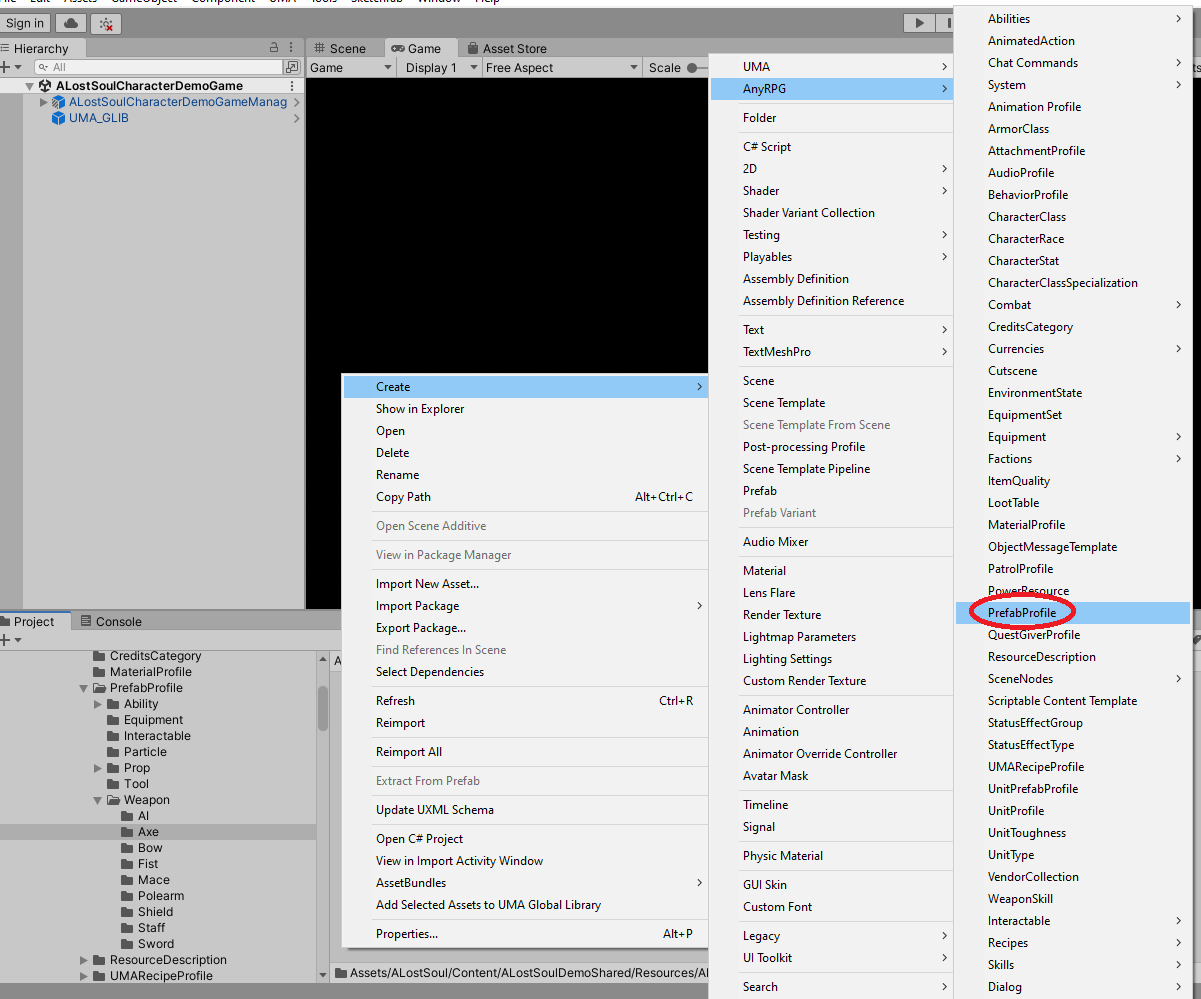
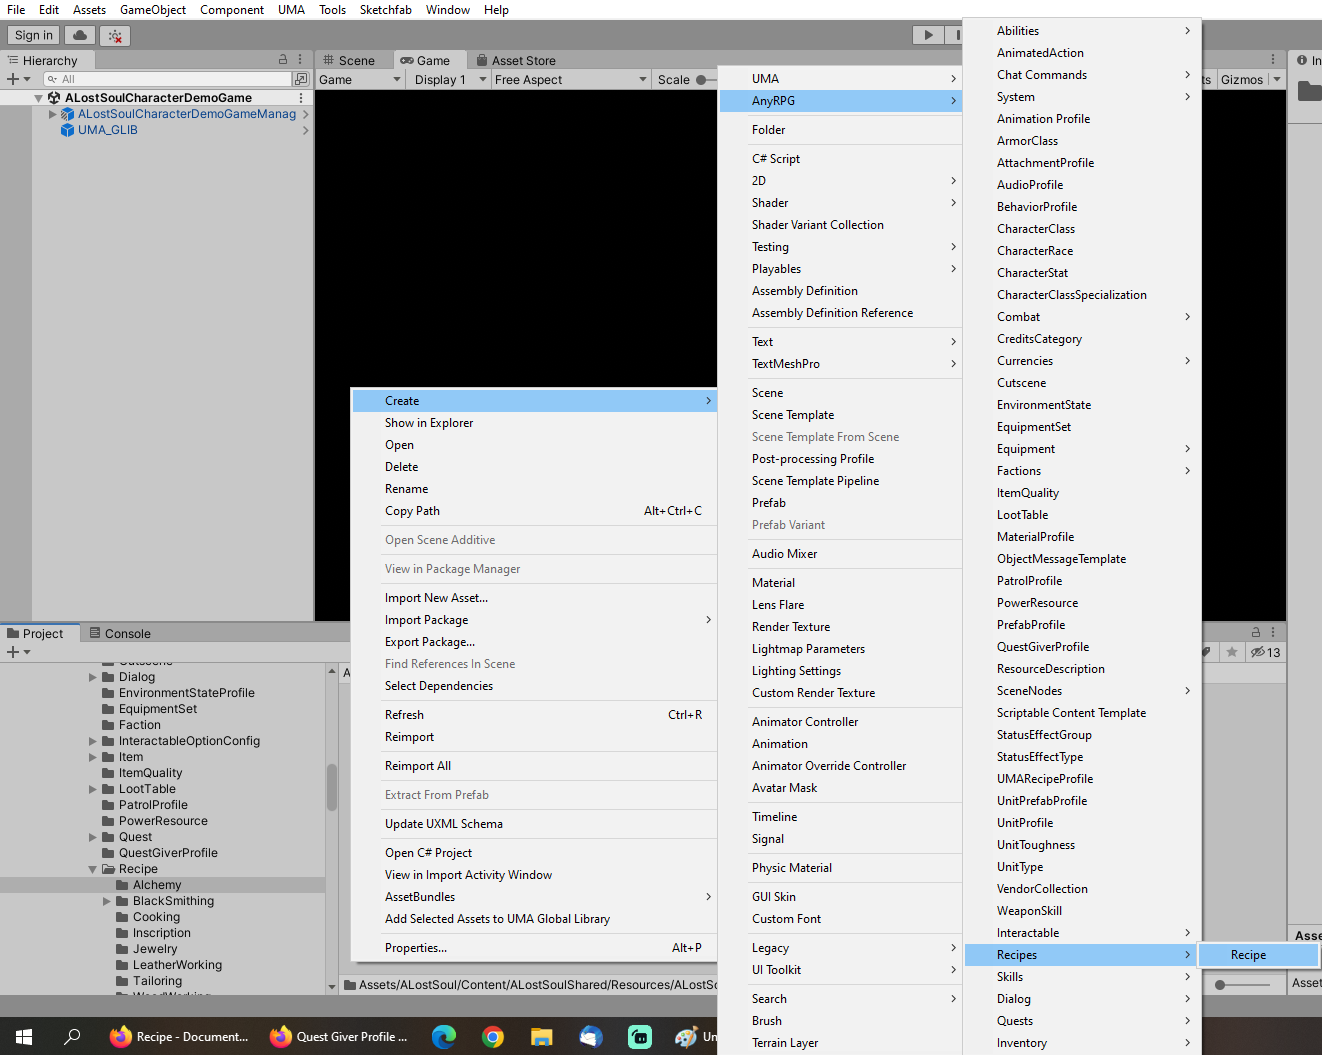
GitBook: [#51] add recipe documentation

diff --git a/scriptable-objects/items/recipe.md b/scriptable-objects/items/recipe.md
@@ -1,5 +1,29 @@
+---
+description: >-
+  A recipe is a list of inputs (ingredients) and outputs (finished products)
+  that will be produced when crafting items.
+---
+
 # Recipe
 
-{% hint style="info" %}
-Coming Soon
-{% endhint %}
+## Creation
+
+To create a recipe, find (or create) the _GameName/Resources/GameName/Recipe_ folder in the project tab and right click.  Choose _Create > AnyRPG > Recipes > Recipe_.
+
+![](<../../.gitbook/assets/image (1).png>)
+
+## Properties
+
+| Name                 | Description                                                                                                                                                                                                                                                                                                                                                                                                                                                                                                                                                                                                                                                                                                                                           |
+| -------------------- | ----------------------------------------------------------------------------------------------------------------------------------------------------------------------------------------------------------------------------------------------------------------------------------------------------------------------------------------------------------------------------------------------------------------------------------------------------------------------------------------------------------------------------------------------------------------------------------------------------------------------------------------------------------------------------------------------------------------------------------------------------- |
+| Auto Learn           | If true, this recipe is automatically learned at the appropriate level, defined in the _Required Level_ field.                                                                                                                                                                                                                                                                                                                                                                                                                                                                                                                                                                                                                                        |
+| Required Level       | The level the character must have reached to learn this recipe.                                                                                                                                                                                                                                                                                                                                                                                                                                                                                                                                                                                                                                                                                       |
+| Crafting Materials   | <p>A list of <a href="./">Items</a> required for the recipe.<br><strong>Item Name</strong><br>The name of an <a href="./">Item</a> that will be used up when crafting this recipe.<br><strong>Count</strong><br>The number of <a href="./">Items</a> that are required.</p>                                                                                                                                                                                                                                                                                                                                                                                                                                                                           |
+| Item Output Name     | The name of the new [Item](./) that will be created upon completing crafting.                                                                                                                                                                                                                                                                                                                                                                                                                                                                                                                                                                                                                                                                         |
+| Output Count         | The number of new [Items](./) that will be created upon completing crafting.                                                                                                                                                                                                                                                                                                                                                                                                                                                                                                                                                                                                                                                                          |
+| Craft Ability Name   | The name of a [Craft Ability](../abilities/craft-ability.md) that must be known to craft this recipe.                                                                                                                                                                                                                                                                                                                                                                                                                                                                                                                                                                                                                                                 |
+| Holdable Object List | <p>A list of <a href="../prefab-profile.md">PrefabProfiles</a> that contain links to GameObjects that will be held while the <a href="./">Item</a> is being crafted.<br><strong>Holdable Object Name</strong><br>The name of a <a href="../prefab-profile.md">PrefabProfile</a> that contains a link to a GameObject.<br><strong>Use Universal Attachment</strong><br>If true, attachment points from the <a href="../prefab-profile.md">PrefabProfile</a> will be ignored, and the universal attachment in the <em>Attachment Name</em> field will be used.<br><strong>Attachment Name</strong><br>The <em>Node Name</em> field from one of the <em>Attachment Point Nodes</em> in an <a href="../attachment-profile.md">Attachment Profile</a>.</p> |
+
+## Next Steps
+
+* Create [Items](./) to be used as inputs or outputs to crafting recipes.

diff --git a/scriptable-objects/prefab-profile.md b/scriptable-objects/prefab-profile.md
@@ -10,7 +10,7 @@ description: >-
 
 To create a prefab profile, find (or create) the _GameName/Resources/GameName/PrefabProfile_ folder in the project tab and right click.  Choose _Create > AnyRPG > PrefabProfile_.
 
-![](<../.gitbook/assets/image (1).png>)
+![](<../.gitbook/assets/image (1) (3).png>)
 
 ## Properties
 
